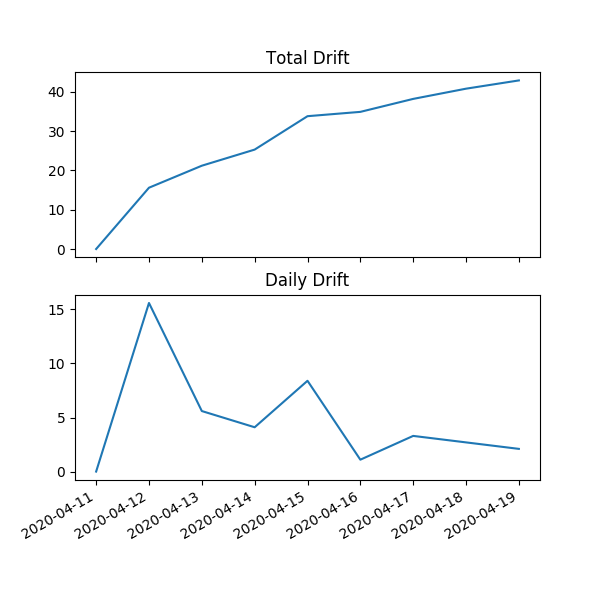
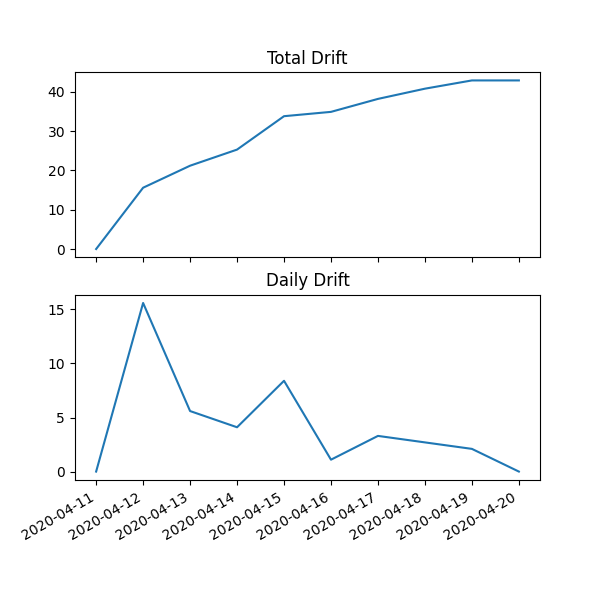
Mon Apr 20 06:11:45 EDT 2020

diff --git a/README.md b/README.md
@@ -1,10 +1,11 @@
 # MMR Drift Status
 
-**Last Updated (UTC):** 2020-04-19 22:47:55.411399
+**Last Updated (UTC):** 2020-04-20 10:11:45.012616
 ![Figure 1](/images/fig1.png)
 ![Figure 2](/images/fig2.png)
 |date| min| max| mean| drift_daily| drift_total| median| stdev|
 |:---|:---|:---|:---|:---|:---|:---|:--- |
+|2020-04-20| 2989| 3199| 3037.5| 0.0| 42.9| 3024.0| 40.6|
 |2020-04-19| 2989| 3199| 3037.5| 2.1| 42.9| 3024.0| 40.6|
 |2020-04-18| 2985| 3248| 3035.4| 2.7| 40.8| 3023.0| 41.6|
 |2020-04-17| 2980| 3210| 3032.8| 3.3| 38.2| 3022.0| 41.5|
